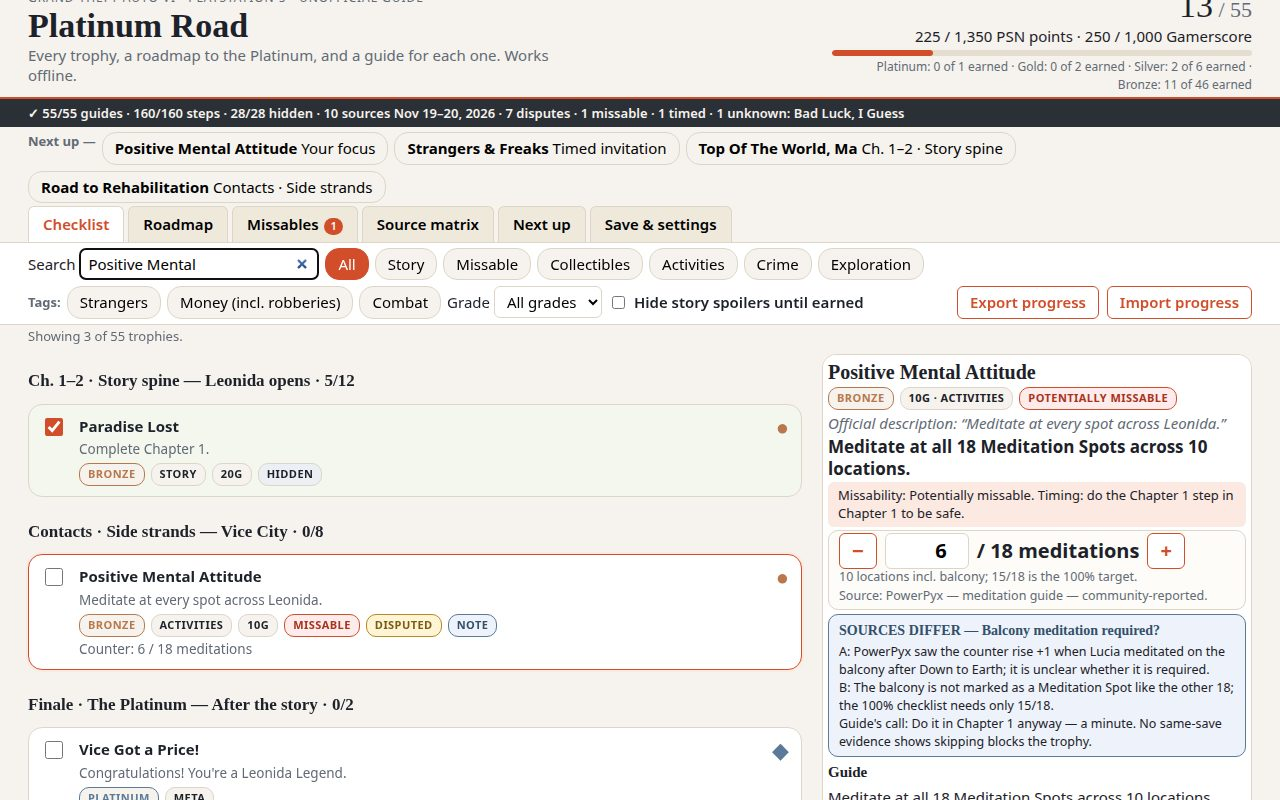
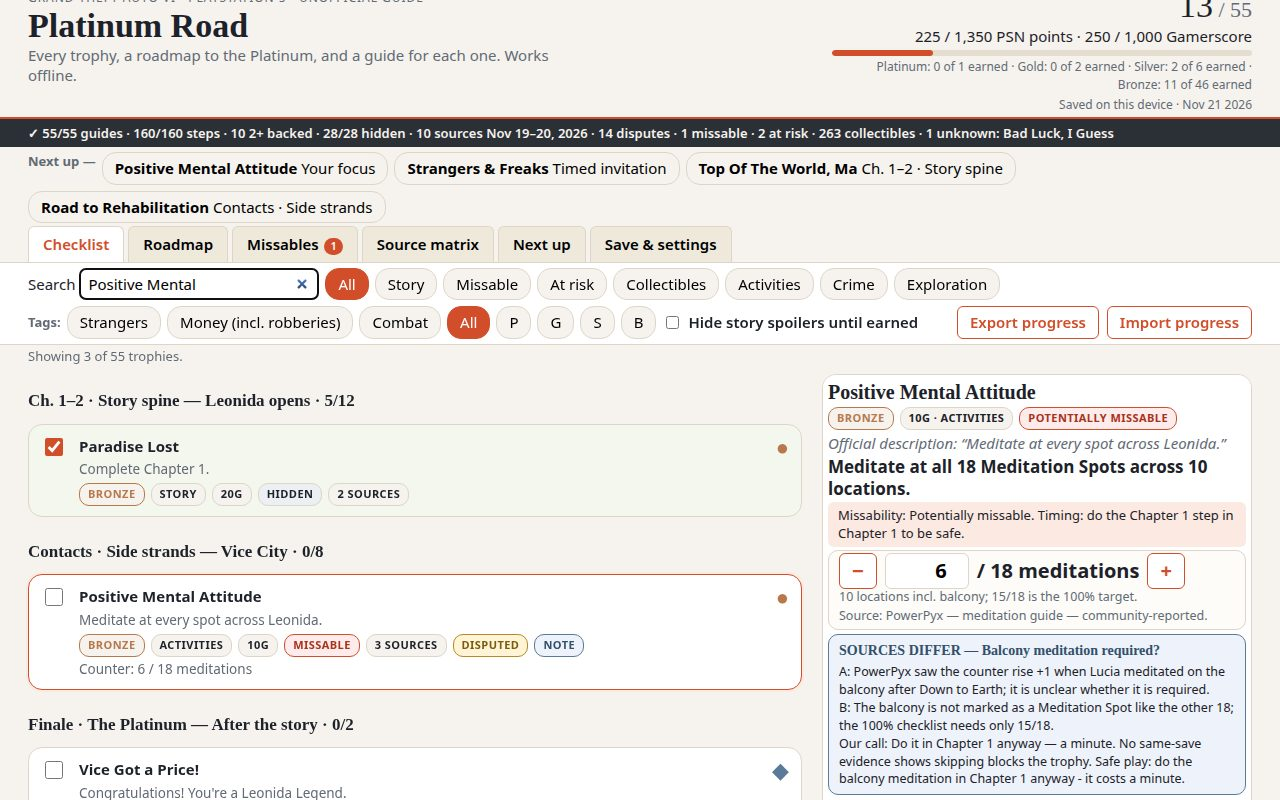
Platinum Road v5: 14 disputes with Our call/Safe play verdicts, 2+ backing, per-site claims, At-risk tier, grade chips, saved-on-device cue

Changed region(s): [[0.0, 0.0938, 1.0, 1.0], [0.0312, 0.6562, 0.625, 0.8438], [0.0, 0.875, 0.2812, 1.0]]

diff --git a/app/app.js b/app/app.js
@@ -3,6 +3,7 @@ const SPK = 'platinum-road-gta6-spoilers';
 const NK = 'platinum-road-gta6-v2-notes';
 const CK = 'platinum-road-gta6-v2-counts';
 const FK = 'platinum-road-gta6-v2-focus';
+const TK = 'platinum-road-gta6-saved';
 const PP = 'https://www.powerpyx.com/gta-6-grand-theft-auto-vi-trophy-guide-roadmap/';
 const EXO = 'https://www.exophase.com/game/grand-theft-auto-vi-psn/trophies/';
 const N1920 = 'Nov 19–20, 2026';
@@ -11,7 +12,7 @@ const $ = (id) => document.getElementById(id);
 function el(tag, cls, txt) { const e = document.createElement(tag); if (cls) e.className = cls; if (txt != null) e.textContent = txt; return e; }
 function badge(txt, cls) { return el('span', 'badge' + (cls ? ' ' + cls : ''), txt); }
 function gb(t) { return badge(t.grade, 'grade-' + t.grade); }
-const listEl = $('trophyList'), paneEl = $('guidePane'), searchEl = $('search'), gradeEl = $('grade'), noteEl = $('filterNote');
+const listEl = $('trophyList'), paneEl = $('guidePane'), searchEl = $('search'), noteEl = $('filterNote');
 const params = new URLSearchParams(location.search);
 const doc = await (await fetch('data/trophies.json')).json();
 const trophies = doc.trophies, stages7 = doc.stages7, srcs = doc.srcs;
@@ -28,7 +29,7 @@ try { notes = JSON.parse(localStorage.getItem(NK) ?? '{}'); } catch { notes = {}
 try { counts = JSON.parse(localStorage.getItem(CK) ?? '{}'); } catch { counts = {}; }
 let focusId = Number(localStorage.getItem(FK) ?? '0') || null;
 if (!trophies.some((t) => t.id === focusId)) focusId = null;
-let activeKind = 'all', activeTag = null;
+let activeKind = 'all', activeTag = null, activeGrade = 'all';
 let selectedId = Number(params.get('trophy')) || trophies[0].id;
 let currentView = params.get('view') || 'checklist';
 if (!['checklist', 'roadmap', 'missables', 'matrix', 'nextup', 'save'].includes(currentView)) currentView = 'checklist';
@@ -39,6 +40,7 @@ function missText(t) { return 'Missability: ' + { auto: 'Automatic during story.
 function isHidden(t) { return spoilersOn && t.hidden && !earned.has(t.name); }
 function srcName(code) { const s = srcs.find((x) => x.c === code); return s ? s.n + ' (' + s.d + ')' : code; }
 function saveProgress() {
+  localStorage.setItem(TK, Date.now());
   localStorage.setItem(SK, JSON.stringify([...earned]));
   localStorage.setItem(SPK, spoilersOn ? '1' : '0');
   localStorage.setItem(NK, JSON.stringify(notes));
@@ -57,6 +59,8 @@ function renderProgress() {
   $('points').textContent = trophies.filter((t) => earned.has(t.name)).reduce((s, t) => s + (PTS[t.grade] || 0), 0);
   $('progressFill').style.width = `${Math.round((earned.size / trophies.length) * 100)}%`;
   $('gradeCounts').textContent = gradeCountsText();
+  const saved = +localStorage.getItem(TK);
+  if (saved) $('savedLine').textContent = `Saved on this device · ${new Date(saved).toDateString().slice(4)}`;
 }
 function renderAudit() {
   const steps = trophies.reduce((s, t) => s + (t.steps || []).length, 0);
@@ -65,8 +69,8 @@ function renderAudit() {
   const hidden = trophies.filter((t) => t.hidden).length;
   const disp = trophies.filter((t) => t.dispute).length;
   const unk = trophies.filter((t) => t.verification === 'unconfirmed');
-  const miss = trophies.filter((t) => t.missable).length, timed = trophies.filter((t) => t.timed).length;
-  $('audit').textContent = `✓ ${guides}/55 guides · ${cited}/${steps} steps · ${hidden}/28 hidden · ${srcs.length} sources ${N1920} · ${disp} disputes · ${miss} missable · ${timed} timed · ${unk.length} unknown: ${unk.map((t) => t.name).join(', ') || 'none'}`;
+  const miss = trophies.filter((t) => t.missable).length, risk = trophies.filter((t) => t.atrisk).length;
+  $('audit').textContent = `✓ ${guides}/55 guides · ${cited}/${steps} steps · 10 2+ backed · ${hidden}/28 hidden · ${srcs.length} sources ${N1920} · ${disp} disputes · ${miss} missable · ${risk} at risk · 263 collectibles · ${unk.length} unknown: ${unk.map((t) => t.name).join(', ') || 'none'}`;
 }
 function renderNextStrip() {
   const host = $('stageStrip');
@@ -84,8 +88,9 @@ function countOf(t) { return Math.max(0, Math.min(t.counter ? t.counter.target :
 function trophyMatchesFilters(t) {
   const q = searchEl.value.trim().toLowerCase();
   if (q && !(t.name.toLowerCase().includes(q) || t.description.toLowerCase().includes(q) || t.guide.toLowerCase().includes(q))) return false;
-  if (gradeEl.value !== 'all' && t.grade !== gradeEl.value) return false;
+  if (activeGrade !== 'all' && t.grade !== activeGrade) return false;
   if (activeTag && !(t.tags || []).includes(activeTag)) return false;
+  if (activeKind === 'atrisk') return !!t.atrisk;
   if (activeKind === 'missable') return t.missable;
   if (activeKind !== 'all' && t.kind !== activeKind) return false;
   return true;
@@ -125,6 +130,8 @@ function renderChecklist() {
     if (!hidden && t.gamerscore) meta.append(badge(`${t.gamerscore}G`));
     if (t.hidden && !hidden) meta.append(badge('Hidden', 'hidden-badge'));
     if (t.missable) meta.append(badge('Missable', 'missable'));
+    if (t.atrisk) meta.append(badge('At risk', 'unconfirmed'));
+    if (t.sc.length > 1) meta.append(badge(t.sc.length + ' sources'));
     if (t.verification === 'unconfirmed') meta.append(badge('Not yet checked', 'unconfirmed'));
     if (t.dispute) meta.append(badge('Disputed', 'unconfirmed'));
     if (notes[t.id]) meta.append(badge('Note', 'note-badge'));
@@ -156,6 +163,7 @@ function renderGuidePane() {
   badges.append(gb(t), badge(`${t.gamerscore}G · ${kindLabel(t.kind)}`));
   if (t.hidden) badges.append(badge('Hidden on PlayStation', 'hidden-badge'));
   if (t.missable) badges.append(badge('Potentially missable', 'missable'));
+  if (t.atrisk) badges.append(badge('At risk', 'unconfirmed'));
   paneEl.append(badges);
   paneEl.append(el('p', 'official-desc', `Official description: “${t.description}”`));
   paneEl.append(el('p', 'guide-lead', t.guide.split('. ')[0] + '.'));
@@ -191,7 +199,7 @@ function renderGuidePane() {
     d.append(el('h3', null, `SOURCES DIFFER — ${t.dispute.q}`));
     d.append(el('p', null, `A: ${t.dispute.a}`));
     d.append(el('p', null, `B: ${t.dispute.b}`));
-    d.append(el('p', null, `Guide's call: ${t.dispute.call}`));
+    d.append(el('p', null, `Our call: ${t.dispute.call}`));
     paneEl.append(d);
   }
   paneEl.append(el('h3', null, 'Guide'));
@@ -266,6 +274,7 @@ function renderMissables() {
   host.replaceChildren();
   const pma = trophies.find((t) => t.miss === 'potentially');
   if (pma) host.append(missableCard(pma, `⚠ ${pma.name} — the only potentially missable trophy`));
+  for (const t of trophies.filter((t) => t.atrisk)) host.append(missableCard(t, `⚠ ${t.name} — at risk`));
   const unknown = trophies.filter((t) => t.miss === 'unknown');
   if (unknown.length) {
     host.append(el('h3', null, 'Not established — method unknown, missability unknown'));
@@ -293,6 +302,9 @@ function renderMatrix() {
     table.append(row);
   }
   host.append(table);
+  let h = '<table class="matrix"><tr><th>Site</th><th>Claims</th><th>Trophies</th></tr>';
+  for (const [c, cl, tr] of doc.siteClaims) h += `<tr><td>${srcName(c)}</td><td>${cl}</td><td>${tr}</td></tr>`;
+  host.insertAdjacentHTML('beforeend', h + '</table>');
   const leg = $('srcLegend');
   leg.replaceChildren();
   const ol = el('ol');
@@ -392,7 +404,12 @@ document.querySelectorAll('.chip[data-tag]').forEach((c) => c.addEventListener('
   renderChecklist();
 }));
 searchEl.addEventListener('input', renderChecklist);
-gradeEl.addEventListener('change', renderChecklist);
+['all', 'platinum', 'gold', 'silver', 'bronze'].forEach((g, i) => {
+  const c = el('button', 'chip' + (i ? '' : ' active'));
+  c.textContent = ['All', 'P', 'G', 'S', 'B'][i];
+  c.onclick = () => { activeGrade = g; [...$('gradeRow').children].forEach((x) => x.classList.toggle('active', x === c)); renderChecklist(); };
+  $('gradeRow').append(c);
+});
 $('exportBtn').addEventListener('click', exportProgress);
 $('exportBtn2').addEventListener('click', exportProgress);
 $('importFile').addEventListener('change', (e) => importProgressFile(e.target.files[0]));

diff --git a/app/index.html b/app/index.html
@@ -19,6 +19,7 @@
 <p class="progress-line"><span id="points">0</span> / 1,350 PSN points &middot; <span id="earnedGamerscore">0</span> / 1,000 Gamerscore</p>
 <div class="progress-bar"><div id="progressFill" class="progress-fill"></div></div>
 <p class="progress-line small" id="gradeCounts">Platinum: 0 of 1 earned &middot; Gold: 0 of 2 earned &middot; Silver: 0 of 6 earned &middot; Bronze: 0 of 46 earned</p>
+<p class="progress-line small" id="savedLine">Progress saves on this device</p>
 </div>
 </header>
 <p class="audit" id="audit"></p>
@@ -37,6 +38,7 @@
 <button type="button" class="chip active" data-kind="all">All</button>
 <button type="button" class="chip" data-kind="story">Story</button>
 <button type="button" class="chip" data-kind="missable">Missable</button>
+<button type="button" class="chip" data-kind="atrisk">At risk</button>
 <button type="button" class="chip" data-kind="collectibles">Collectibles</button>
 <button type="button" class="chip" data-kind="activities">Activities</button>
 <button type="button" class="chip" data-kind="crime">Crime</button>
@@ -48,15 +50,7 @@
 <button type="button" class="chip tag-chip" data-tag="money">Money (incl. robberies)</button>
 <button type="button" class="chip tag-chip" data-tag="combat">Combat</button>
 </div>
-<label class="grade-label">Grade
-<select id="grade">
-<option value="all">All grades</option>
-<option value="platinum">Platinum</option>
-<option value="gold">Gold</option>
-<option value="silver">Silver</option>
-<option value="bronze">Bronze</option>
-</select>
-</label>
+<div class="kind-filters" id="gradeRow"></div>
 <label class="spoiler-toggle"><input id="spoilers" type="checkbox"> Hide story spoilers until earned</label>
 <div class="control-buttons">
 <button id="exportBtn" type="button">Export progress</button>
@@ -73,7 +67,7 @@
 </section>
 <section id="view-roadmap" class="view hidden">
 <h2>Roadmap to the Platinum</h2>
-<p class="roadmap-intro">Built from the official trophy descriptions. Estimated difficulty <strong>4/10</strong>, about <strong>200 hours</strong>, <strong>one playthrough</strong>, no mission replay. Free roam opens after the story. Only one trophy is potentially missable (see Missables), and one has no established method yet (Bad Luck, I Guess). Keep cheats off your trophy save.</p>
+<p class="roadmap-intro">Built from the official trophy descriptions. Estimated difficulty <strong>4/10</strong>, about <strong>200 hours</strong>, <strong>one playthrough</strong>, <strong>7 stages</strong>, no mission replay. Free roam opens after the story. Only one trophy is potentially missable (see Missables), and one has no established method yet (Bad Luck, I Guess). Keep cheats off your trophy save.</p>
 <div id="roadmapStages"></div>
 </section>
 <section id="view-missables" class="view hidden">
@@ -99,11 +93,11 @@
 <section id="view-save" class="view hidden">
 <h2>Save &amp; settings</h2>
 <div class="save-panel">
-<p>Progress saves in this browser the moment you tick a trophy, type a note, or change a counter. Export backs it up or moves it to another browser. Export and import carry earned ticks, notes, counters, focus, and the spoiler setting.</p>
+<p>Progress saves in this browser as you tick trophies, type notes, or change counters. Export backs it up or moves it to another browser.</p>
 <p><button id="exportBtn2" type="button">Export progress (.json)</button>
 <label class="import-btn">Import progress <input id="importFile2" type="file" accept="application/json,.json"></label></p>
 <p><button id="resetBtn" type="button" class="danger">Reset all progress</button></p>
-<p class="small">Export format: earned trophy names, notes, counters, focus and the spoiler setting. Files exported by the first version of this guide (a plain list of names) still import.</p>
+<p class="small">Exports carry earned names, notes, counters, focus and the spoiler setting. First-version exports (a plain list of names) still import.</p>
 </div>
 <div class="save-panel">
 <h3>Spoiler setting</h3>
@@ -112,8 +106,8 @@
 </div>
 <div class="save-panel">
 <h3>About this guide</h3>
-<p>Unofficial fan guide, not affiliated with Rockstar Games or PlayStation. Trophy names, descriptions and grades are as PlayStation publishes them. Guides are this entry’s own words; firsthand methods are credited to <a href="https://www.powerpyx.com/gta-6-grand-theft-auto-vi-trophy-guide-roadmap/">PowerPyx’s GTA 6 Trophy Guide &amp; Roadmap (Nov 19–20, 2026)</a>, with GTABase where noted. Anything unconfirmed is labelled “not yet checked in the game”, never presented as fact.</p>
-<p>Counters show the trophy’s own target, with the larger 100% target shown separately where it differs; each names its source — community-reported, not platform data. Strangers, Money and Combat are editorial tags, not official categories: Money includes robberies, and only four Strangers questlines count toward the 8-strand trophy.</p>
+<p>Unofficial fan guide, not affiliated with Rockstar or PlayStation. Trophy names, descriptions and grades are as PlayStation publishes them. Guides are this entry’s own words; methods are credited to <a href="https://www.powerpyx.com/gta-6-grand-theft-auto-vi-trophy-guide-roadmap/">PowerPyx’s GTA 6 Trophy Guide &amp; Roadmap (Nov 19–20, 2026)</a>, with GTABase where noted. Anything unconfirmed is labelled “not yet checked in the game”, never presented as fact.</p>
+<p>Counters show the trophy’s own target, with the larger 100% target shown separately where it differs; each names its source — community-reported, not platform data. Strangers, Money and Combat are editorial tags: Money includes robberies, and only four Strangers questlines count toward the 8-strand trophy.</p>
 <p class="small">55 trophies: 1 Platinum, 2 Gold, 6 Silver, 46 Bronze. 28 hidden, 27 visible. 1,350 PSN points; 1,000 Gamerscore on Xbox. Licence: MIT.</p>
 </div>
 </section>

diff --git a/main.ts b/main.ts
@@ -5,7 +5,7 @@
 // screenshots, the first load's files and bytes, and your source), with the vendored make.fun library. Leave
 // vendor/makefun-frontend.ts as it is: the scorer requires dossier.json to be byte for byte what its own copy writes.
 //
-// Platinum Road v4 — presentation redesign on the v3 guide (dossier first-load: 12,451 bytes gzip-9 against the 12,500 cap in v3; v4 keeps the shell lean by restyling, not adding): light judged cover with the Positive Mental Attitude detail filled, a one-line audit, a bold lead + big count stepper + two colour-blocked callouts in the guide pane, the checklist grouped by named chapters with place subtitles, and Next Up as a short horizontal strip. A follow-up fix tightened the guide pane (paddings, line-heights, condensed dispute wording) so the whole SOURCES DIFFER box — heading, version A, version B and the verdict — fits inside the 800px cover shot; the dispute's meaning and both versions are unchanged. The 55-trophy checklist keeps saved progress, export/import that also carries per-trophy notes, verified progress counters, the next-up focus and the spoiler setting, kind, grade and editorial content-tag filters (Strangers, Money incl. robberies, Combat), a spoiler setting, a seven-chapter roadmap to the Platinum, a missables page with four separate missability wordings, a one-line verification audit, per-trophy step-by-step guides with a source on every step, seven disputes shown both ways, a source matrix with a numbered dated source list, and a next-up planner ordered by roadmap stage and missability. Counters show the trophy's own target with its source and confidence, and single-attempt requirements are shown as conditions, never as ticking numbers. Guide text, steps, stages and sources live in app/data/trophies.json (fetched at runtime, outside the dossier total); the shell renders them.
+// Platinum Road v5 — bounded research top-up on the v4 guide (dossier first-load: 12,192 bytes gzip-9 against the 12,500 cap in v4; v5 keeps the shell lean by restyling, not adding): 14 disputes shown both ways with an explicit "Our call:" / "Safe play:" verdict line each, 10 of 160 steps backed by 2+ named sources, per-trophy source-count badges and a per-site claims table computed from the data, an "At risk" tier (2 trophies, distinct from the 1 missable) with its own filter chip, PSN points 1,350 with the grade split and 263 collectibles logged in the one-line audit, roadmap header totals (7 stages, ~200h, 4/10, 1 playthrough) with per-stage progress bars, a "Saved on this device · <date>" trust cue from real local state, and P/G/S/B grade filter chips beside the search box. The judged cover stays light with the Positive Mental Attitude detail filled, a one-line audit, a bold lead + big count stepper + two colour-blocked callouts in the guide pane, the checklist grouped by named chapters with place subtitles, and Next Up as a short horizontal strip. The 55-trophy checklist keeps saved progress, export/import that also carries per-trophy notes, verified progress counters, the next-up focus and the spoiler setting, kind, grade and editorial content-tag filters (Strangers, Money incl. robberies, Combat), a spoiler setting, a seven-chapter roadmap to the Platinum, a missables page with four separate missability wordings, a one-line verification audit, per-trophy step-by-step guides with a source on every step, a source matrix with a numbered dated source list, and a next-up planner ordered by roadmap stage and missability. Counters show the trophy's own target with its source and confidence, and single-attempt requirements are shown as conditions, never as ticking numbers. Guide text, steps, stages and sources live in app/data/trophies.json (fetched at runtime, outside the dossier total); the shell renders them.
 // The screenshots in screenshots/ are real renders of this app in desktop Chrome at 1280x800, taken with 13 of 55 trophies earned, a counter part-way and a saved note on the cover trophy (Positive Mental Attitude, 6/18 meditations).
 //
 // Serve it locally with `node serve.ts`, then open http://localhost:8080.

diff --git a/app/style.css b/app/style.css
@@ -21,7 +21,7 @@ button{font:inherit;cursor:pointer}
 .tab.active{background:#fff;color:#d24e2a}
 .tab-badge{display:inline-block;background:#d24e2a;color:#fff;border-radius:10px;font-size:11px;padding:0 6px;margin-left:2px}
 .controls{display:flex;gap:6px;align-items:center;flex-wrap:wrap;padding:5px 28px;background:#fff;border-top:1px solid #ddd5c8;border-bottom:1px solid #ddd5c8}
-.search-label input,.grade-label select{font:inherit;padding:4px 8px;border:1px solid #ddd5c8;border-radius:6px;background:#fff}
+.search-label input{font:inherit;padding:4px 8px;border:1px solid #ddd5c8;border-radius:6px;background:#fff}
 .search-label input{width:240px}
 .kind-filters{display:flex;gap:6px;flex-wrap:wrap;align-items:center}
 .tag-label{font-weight:700;font-size:13px;color:#626a75}
